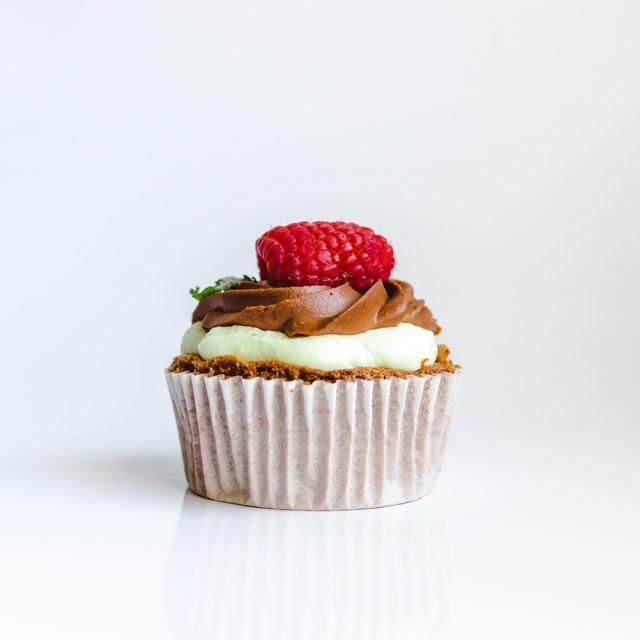
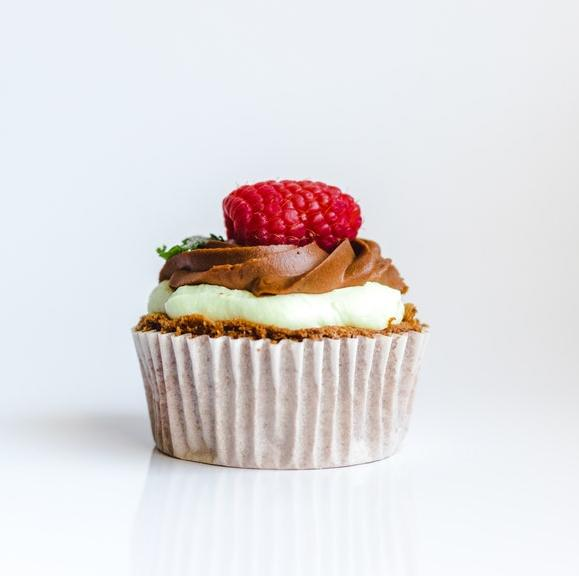
grid images

Changed region(s): [[0.2176, 0.3125, 0.7461, 0.8438]]

diff --git a/SinglePage/page1/style.css b/SinglePage/page1/style.css
@@ -12,16 +12,21 @@ body {
     --corSafatyYellow: #f1d302;
 }
 /**************************  menu ****************************/
+
 #menu ul {
-	padding-top:15px;
-    padding-bottom: 15px;
-	margin:10px;
+	padding-top:0.6em;
+    padding-bottom: 0.5em;
+    padding-right: 0em;
+    padding-left: 0em;
+	margin-top: auto;
 	background-color:#EDEDED;
 	list-style:none;
     display: flex;
     flex-direction: row;
     justify-content: center;
     align-items: center;
+    width: 100%;
+    height: 4%;
 }
 
 #menu ul li { /*menu na horizontal*/
@@ -29,25 +34,27 @@ body {
 } 
 
 #menu ul li a {
-	padding: 4px 35px;
+	padding: 0.3em 3em;
 	display: inline-block;
 	/* visual do link */
 	background-color:#EDEDED;
 	color: #333;
 	text-decoration: none;
-	border-bottom:3px solid #EDEDED;
+	border-bottom: 0.7em solid #EDEDED;
 }
 
 #menu ul li a:hover {
 	background-color:#D6D6D6;
 	color: #6D6D6D;
-	border-bottom:3px solid #EA0000;
+	border-bottom:0.2em solid #EA0000;
 }
 
 /******************* quem somos *********************/
 .apresentacao > h2 {
-    width: 95vw;
-    height: 6vh;
+    width: 100%;
+    height: 6%;
+    padding-top:0.3em;
+    padding-bottom: 0.2em;
     display: flex;
     flex-direction: column;
     justify-content: center;
@@ -72,25 +79,72 @@ body {
     justify-content: center;
     align-items: center;
     font-size: 15px;
-    width: 95vw;
-    height: 6vh;
+    width: 100%;
+    height: 6%;
     background-color: var(--corBabyPink);
-    padding-bottom: 15px;
-    padding-top: 5px;
+    padding-bottom: 0.1em;
+    padding-top: 0.1em;
 }
 
 .imagem1 {
-    padding-top: 15px;
+    padding-top: 1em;
     display: flex;
     flex-direction: column;
     justify-content: center;
     align-items: center;
-    width: 98vw;
+    width: 100%;
+}
+
+.imgBombom {
+    width: 100%;
+    height: auto;
+    object-fit: cover;
+    object-position: bottom;
+    padding-bottom: 0.9em;
+}
+
+.wrap {
+    display: flex;
+    flex-wrap: wrap;
+    justify-content: flex-start;
+}
+
+.item1 {
+    width: 50%;
+    height: auto;
+    object-fit: cover;
+    object-position: bottom;
+    padding-bottom: 0.9em;
+}
+
+.item2 {
+    width: 50%;
+    height: auto;
+    object-fit: cover;
+    object-position: bottom;
+    padding-bottom: 0.9em;
 }
 
 @media screen and (max-width: 667px) {
+    /************ config menu **************/
+    #menu ul {
+        padding-top:0.5em;
+        padding-bottom: 0.5em;
+        padding-right: 0em;
+        padding-left: 0em;
+        margin-top: auto;
+        background-color:#EDEDED;
+        list-style:none;
+        display: flex;
+        flex-direction: row;
+        justify-content: center;
+        align-items: center;
+        width: 100%;
+        height: 5%;
+    }
+
     #menu ul li a { /*config menu*/
-        padding: 4px 15px;
+        padding: 0.1em 1em;
         display: inline-block;
         /* visual do link */
         background-color:#EDEDED;
@@ -99,9 +153,31 @@ body {
         border-bottom:3px solid #EDEDED;
     }
 
-    .imagem1 {
-        background-image: url("./imagens/principais/bombomGrandeEditada-Cortadapx.jpg");
-        
+    /**************** quem somos *****************/
+    .apresentacao > h2 {
+        width: 100%;
+        height: 6%;
+        padding-top:0.2em;
+        padding-bottom: 0.1em;
+        display: flex;
+        flex-direction: column;
+        justify-content: center;
+        align-items: center;
+        background-color: #dfd4d5;
+    }
+
+    /********************** primeiro bloco ***********************/
+    .bloco1 {
+        display: flex;
+        flex-direction: column;
+        justify-content: center;
+        align-items: center;
+        font-size: 13px;
+        width: 100%;
+        height: 3%;
+        background-color: var(--corBabyPink);
+        padding-bottom: 0.1em;
+        padding-top: 0.1em;
     }
 
 }

diff --git a/SinglePage/page1/index.html b/SinglePage/page1/index.html
@@ -21,7 +21,7 @@
     <section class="apresentacao">
         <h2>Quem somos?</h2>
         <p>Uma simples confeitaria que visa além de agradar o paladar de nossos clientes,
-            visamos guardar boas memórias com nossos sabores que ofertamos.
+            visamos guardar boas memórias com nossos sabores.
         </p>
         <p>Esperamos que gostem e obrigado por visitar nosso site.</p>
     </section>    
@@ -29,18 +29,19 @@
 
     <div class="bloco1">
         <h1>Um convite para novos sabores</h1>
-       <!-- <picture class="imagem1">
-            <img src="./imagens/principais/bombomGrandeEditado.jpg" alt="imagem flexive">
-        </picture>-->
     </div>
-     <div class="imagem1">
-       <!--- <picture>
-            <source media="(max-width: 667px)" srcset="./imagens/principais/bombomGrandeEditada-Cortadapx.jpg" type="image/png">
-            <source media="(max-width: 768px)" srcset="./imagens/principais/bombomGrande--768px.jpg" type="image/png">
-            <source media="(max-width: 1200px)" srcset="./imagens/principais/bombomGrandeEditada-Cortadapx.jpg" type="image/png">
-            <img src="./imagens/principais/bombomGrande--768px.jpg" alt="imagem flexive"> 
-        </picture> -->
-    </div> 
-    
+    <img src="./imagens/principais/novaImagem.jpg" alt="imgFlex" class="imgBombom">
+
+    <h1>testando bloco de imagens</h1>
+
+    <section class="wrap">
+        <div class="item1">
+            <img src="./imagens/boloAMreloEditado.jpg" alt="boloamarelo">
+        </div>
+        <div class="item2">
+            <img src="./imagens/cupcake.jpg" alt="cupcake">
+        </div>
+    </section>
+
 </body>
 </html>
